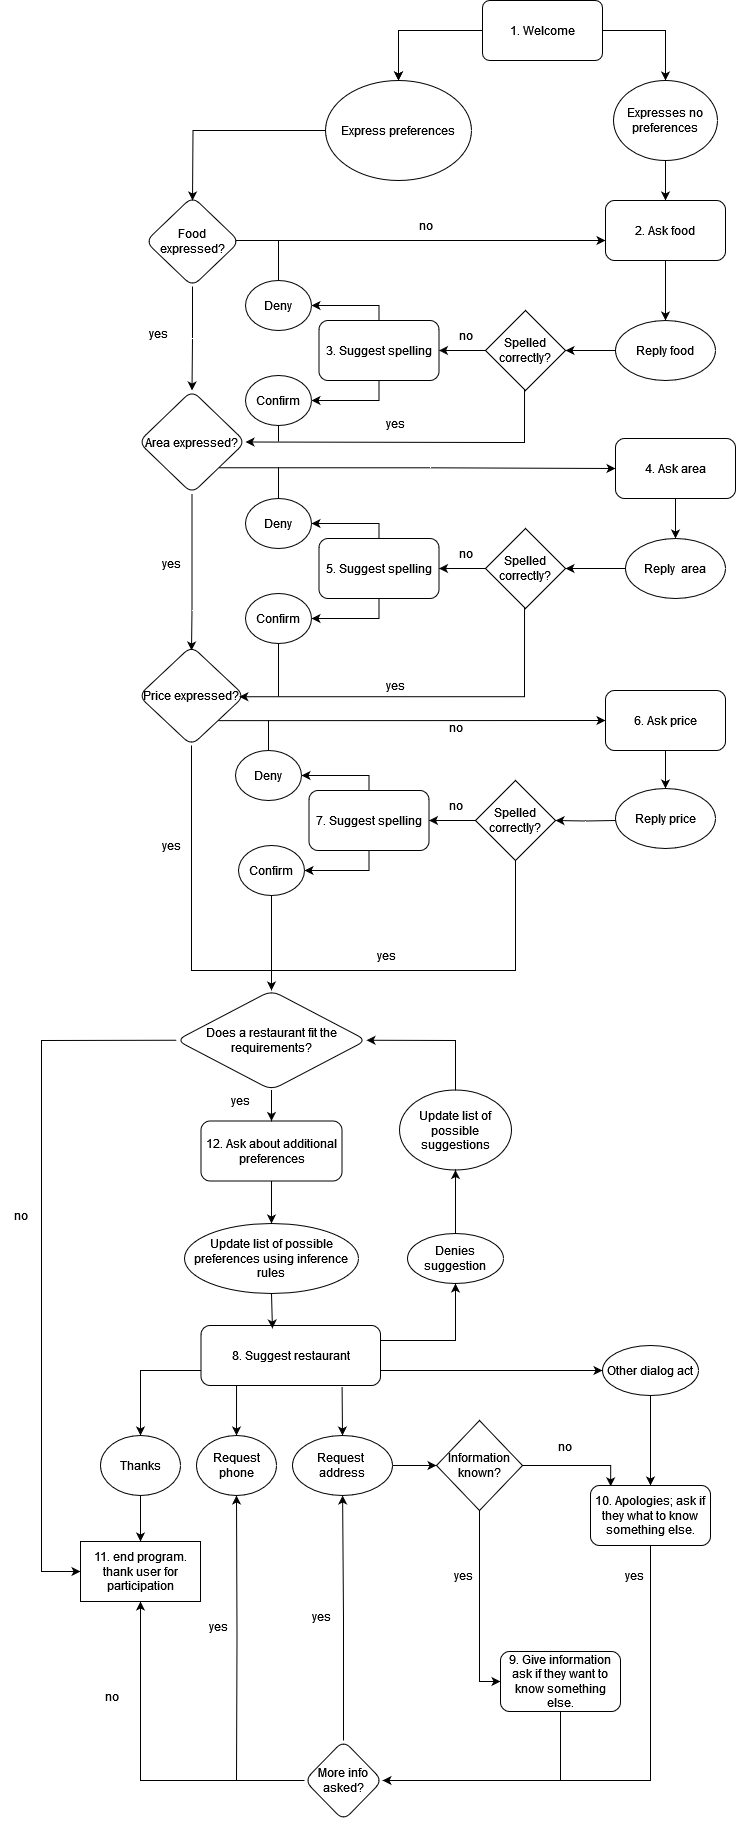
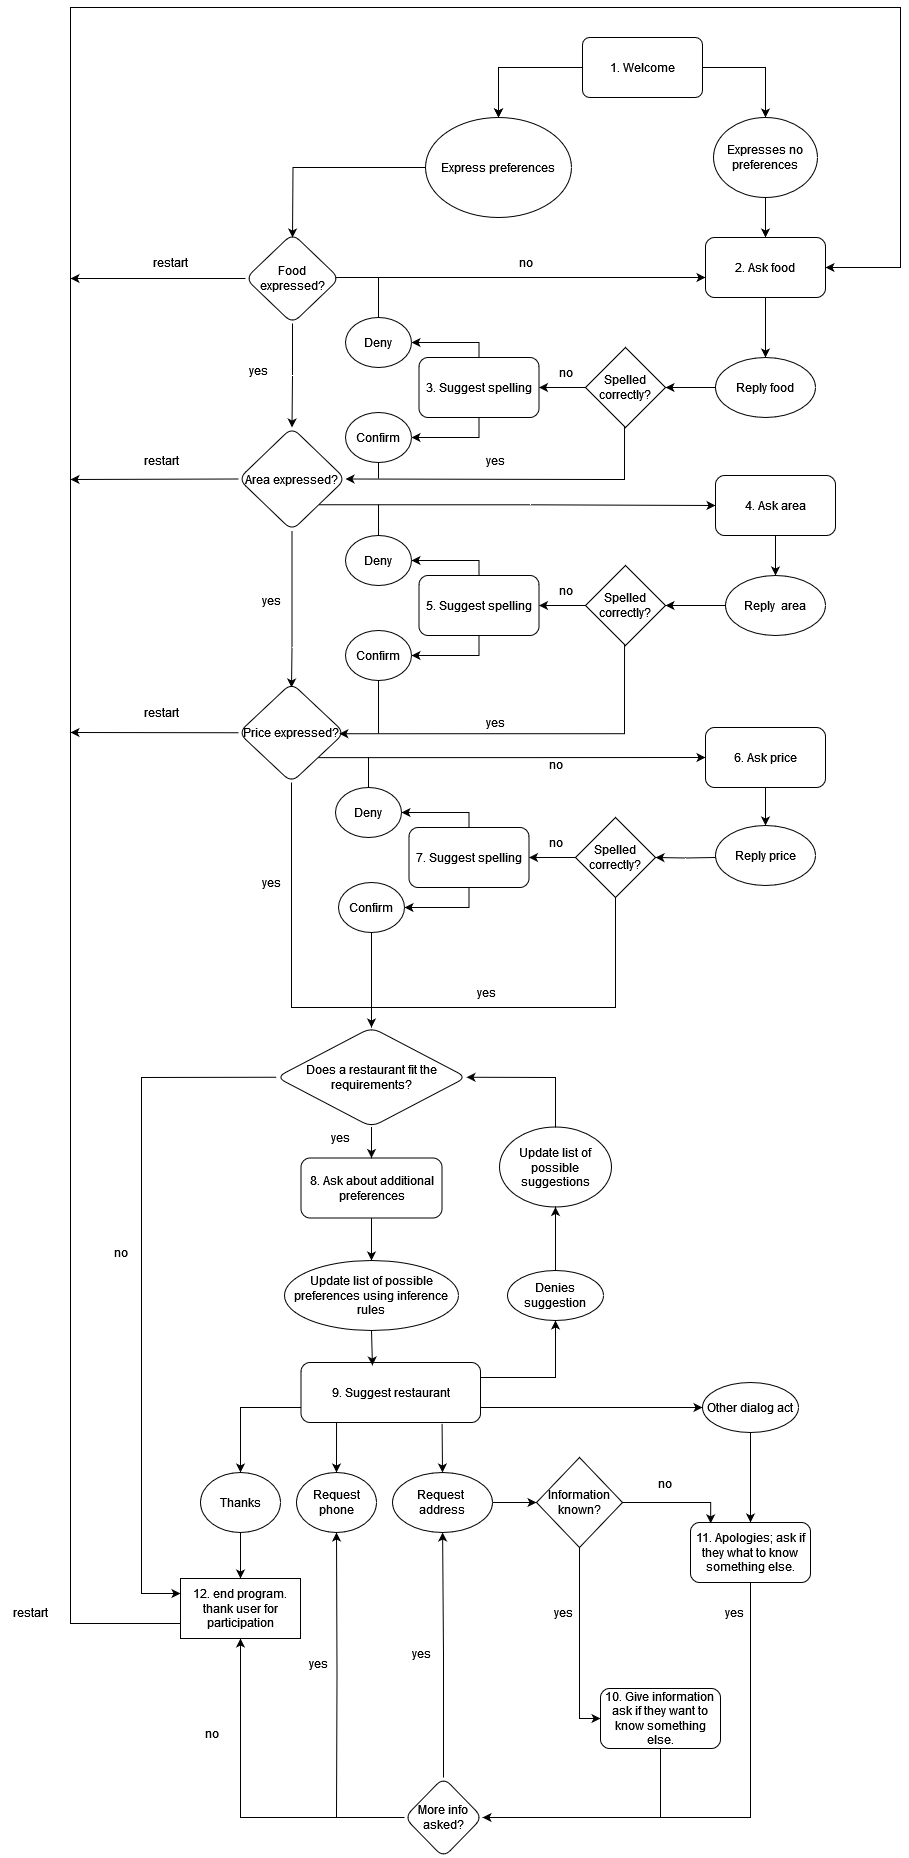
diagram update, small code edits and readme update to include pickle

diff --git a/fsm_statemanager.py b/fsm_statemanager.py
@@ -818,9 +818,7 @@ class FiniteStateMachine:
                     )
                 return
 
-        elif (
-            self.get_state() == 11
-        ):  # TODO: Pre-terminal state; possibility to revert to state 2 here.
+        elif( self.get_state() == 11):
             dialog_act = self.classifier_handler(inp)
             if dialog_act == "bye" or dialog_act == "thankyou":
                 if self._configuration["informal_switch"]:

diff --git a/README.md b/README.md
@@ -49,6 +49,8 @@ Here are all the libraries used in this project:
 
 - **pandas**: 
 Pandas is a powerful data manipulation and analysis library that simplifies working with structured data.
+- **pickle**: 
+Pickle is a simple library that turns any object into raw data so it can be used later.
 - **numpy**: 
 NumPy is a fundamental library for numerical computing, enabling efficient operations on arrays and matrices.
 - **scikit-learn**: 
